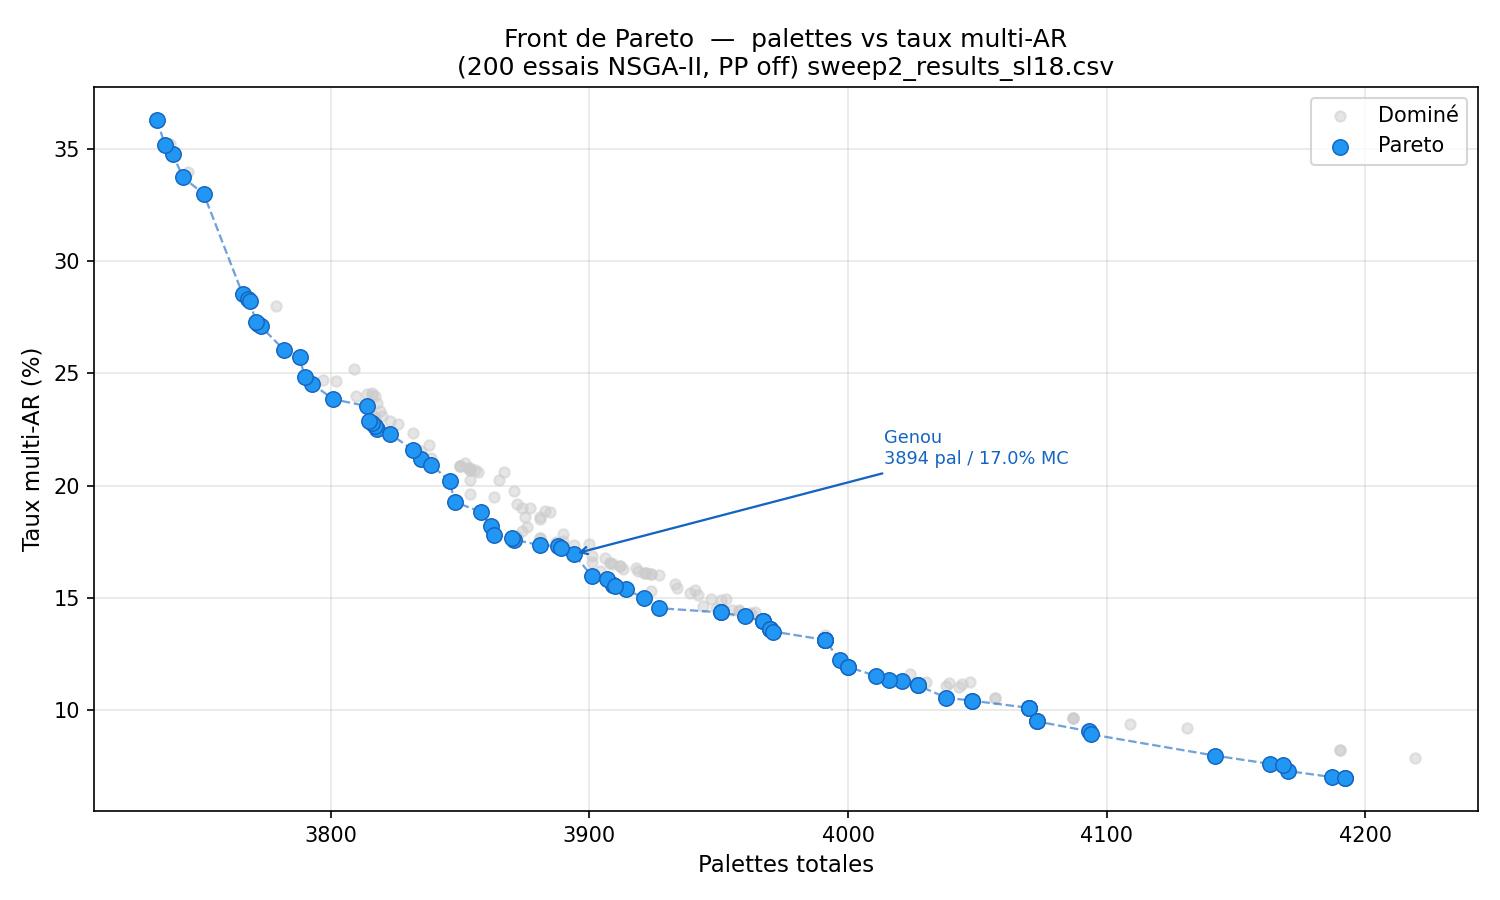
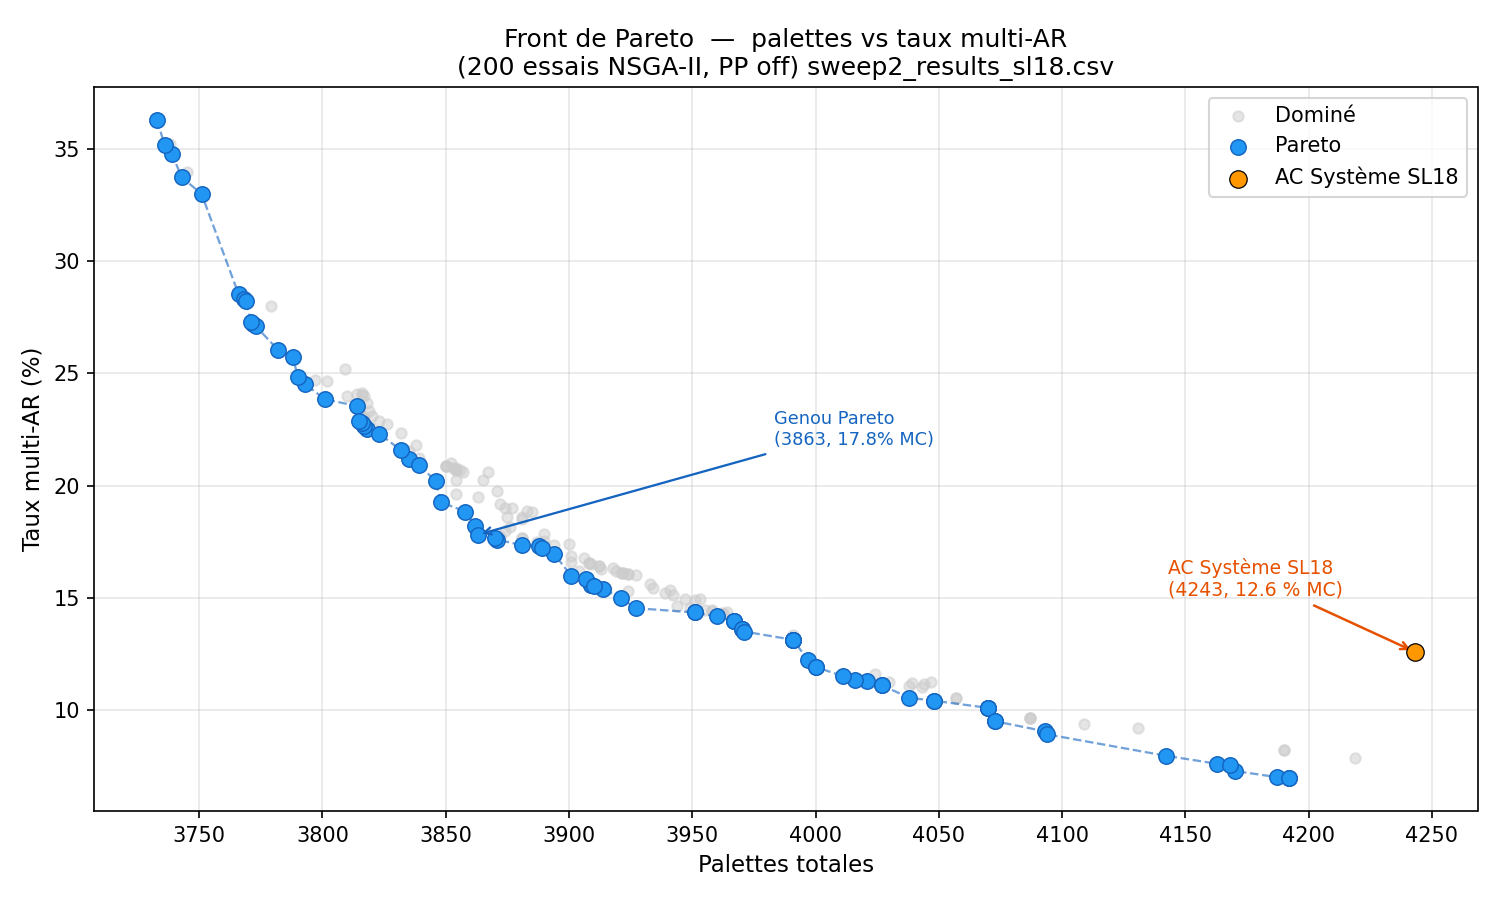
modif make_chart + graph

diff --git a/experiments/make_charts.py b/experiments/make_charts.py
@@ -5,6 +5,7 @@ import matplotlib
 matplotlib.use("Agg")
 import matplotlib.pyplot as plt
 import matplotlib.patches as mpatches
+from matplotlib.ticker import MultipleLocator
 from matplotlib.colors import Normalize
 import os
 
@@ -47,13 +48,41 @@ ax.scatter(arr(PAL, pareto), arr(RATIO, pareto)*100,
 pareto_s = sorted(pareto, key=lambda d: d[PAL])
 ax.plot([d[PAL] for d in pareto_s], [d[RATIO]*100 for d in pareto_s],
         c="#1565C0", lw=1.1, ls="--", zorder=2, alpha=0.6)
-knee = min(pareto, key=lambda d: abs(d[RATIO]*100 - 17) + abs(d[PAL]-3900)/50)
+knee = min(pareto, key=lambda d: abs(d[RATIO]*100 - 17.9) + abs(d[PAL]-3860)/50)
 ax.annotate(
-    f"Genou\n{int(knee[PAL])} pal / {knee[RATIO]*100:.1f}% MC",
+    f"Genou Pareto\n({int(knee[PAL])}, {knee[RATIO]*100:.1f}% MC)",
     xy=(knee[PAL], knee[RATIO]*100), fontsize=8.5, color="#1565C0",
     arrowprops=dict(arrowstyle="->", color="#1565C0", lw=1.1),
     xytext=(knee[PAL]+120, knee[RATIO]*100+4),
 )
+
+
+# Point de référence AC Système SL18
+x_ref, y_ref = 4243, 12.6
+
+ax.scatter(
+    x_ref, y_ref,
+    color="#FF9800",  # orange
+    s=70,
+    zorder=4,
+    edgecolors="black",
+    linewidths=0.6,
+    label="AC Système SL18"
+)
+ax.annotate(
+    "AC Système SL18\n(4243, 12.6 % MC)",
+    xy=(x_ref, y_ref),
+    xytext=(x_ref - 100, y_ref + 2.5),
+    fontsize=9,
+    color="#E65100",
+    arrowprops=dict(
+        arrowstyle="->",
+        color="#E65100",
+        lw=1.2
+    )
+)
+
+
 ax.set_xlabel("Palettes totales", fontsize=11)
 ax.set_ylabel("Taux multi-AR (%)", fontsize=11)
 ax.set_title(
@@ -62,6 +91,9 @@ ax.set_title(
 )
 ax.legend(fontsize=10)
 ax.grid(True, alpha=0.3)
+
+ax.xaxis.set_major_locator(MultipleLocator(50))
+
 fig1.tight_layout()
 fig1.savefig(os.path.join(_DIR, "sweep2_fig1_pareto.png"), dpi=150)
 plt.close(fig1)